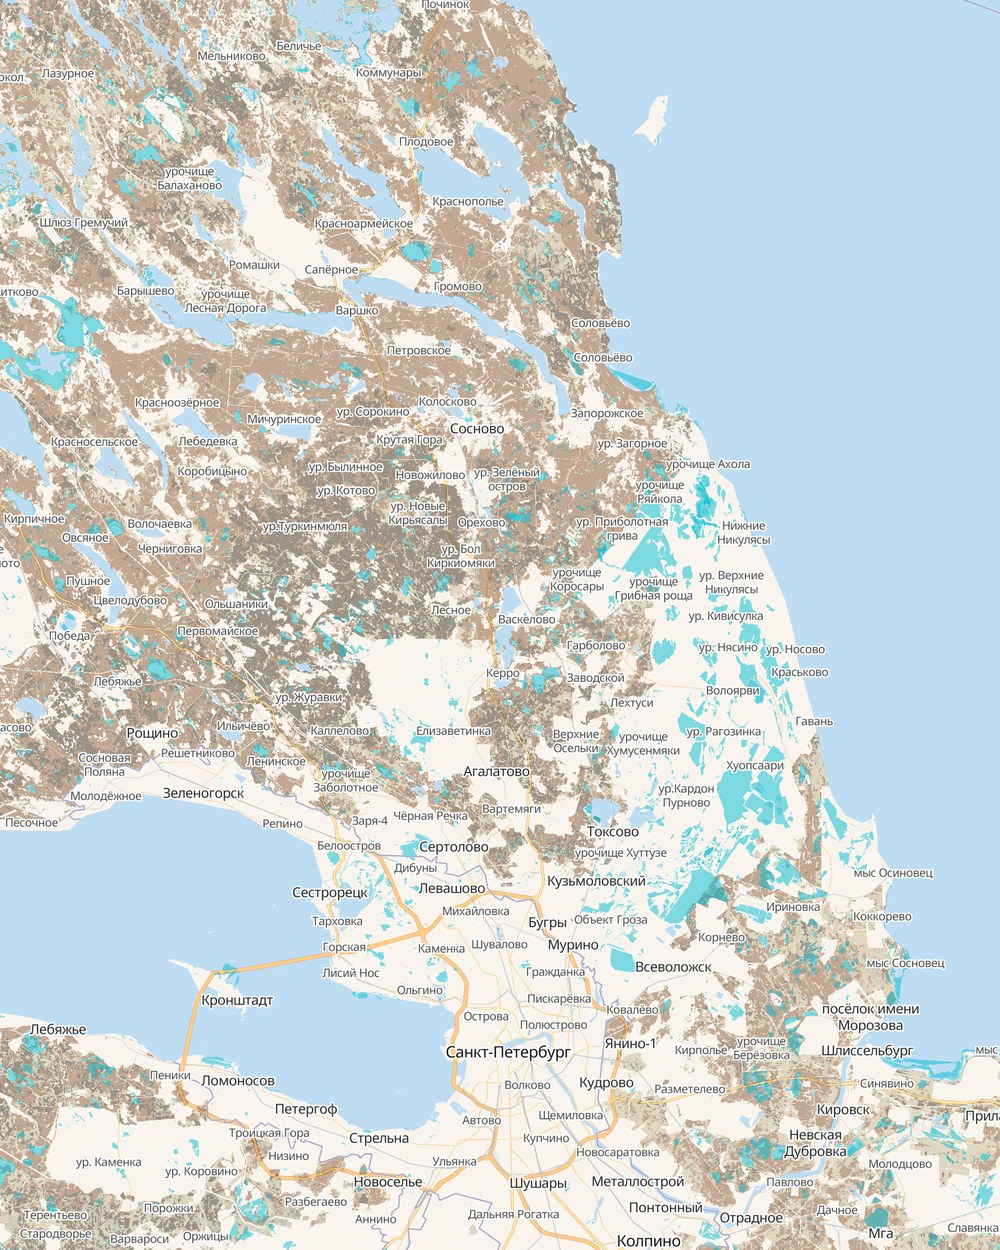
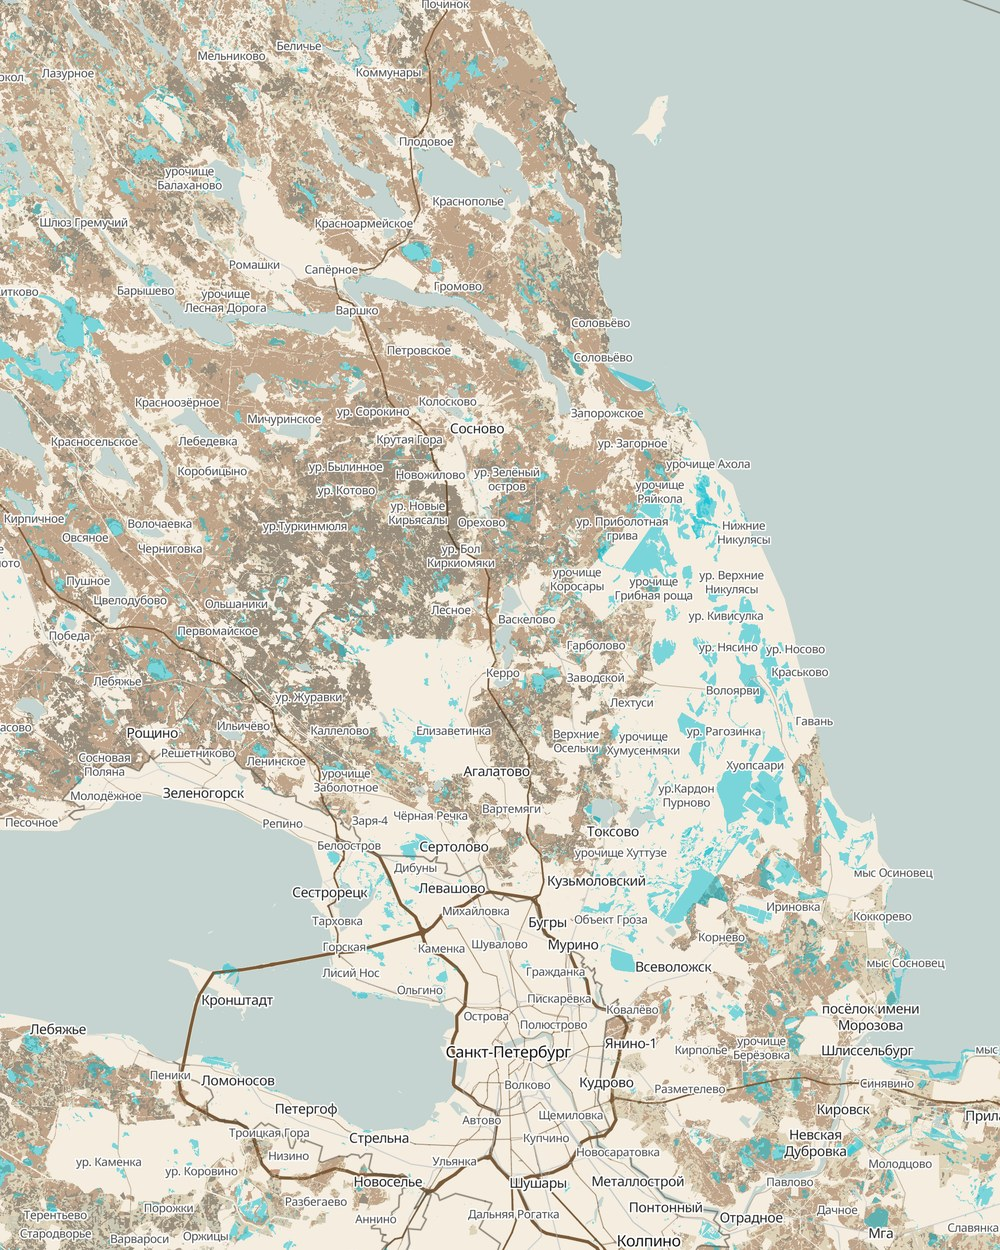
chore(d1v): SpotsMiniMap on D1V basemap + landing cameo refresh
После shipping D1V paint patches (acf8529) остались две точки
с ванильным Versatiles:

1. SpotsMiniMap на /spots — собственный maplibre instance,
   фетчит buildSchemeStyle напрямую (не через useBaseMap).
   Переключён на buildSchemeStyleD1V → консистентность с /map.

2. apps/web/public/landing-cameo.jpg — JPEG снимок снят
   до D1V deploy, на нём яркий Versatiles. Re-shot через
   playwright headless (skill screenshot-prod-via-playwright)
   с D1V basemap. Visual: приглушённая базовая карта пропустила
   forest+wetland+waterway overlays в первый план — overlay'и
   читаются гораздо чище на бумажном фоне, чем на старом
   ярко-зелёном Versatiles.

diff --git a/apps/web/src/components/SpotsMiniMap.tsx b/apps/web/src/components/SpotsMiniMap.tsx
@@ -21,7 +21,7 @@ import { Protocol } from "pmtiles";
 import "maplibre-gl/dist/maplibre-gl.css";
 import type { UserSpot } from "@mushroom-map/types";
 import {
-  buildSchemeStyle,
+  buildSchemeStyleD1V,
   SCHEME_STYLE_FALLBACK,
 } from "./mapView/styles/scheme";
 import { RATING_HEX } from "../lib/spotRating";
@@ -124,7 +124,7 @@ export const SpotsMiniMap = forwardRef<SpotsMiniMapHandle, Props>(
       const init = async () => {
         let style: maplibregl.StyleSpecification;
         try {
-          style = await buildSchemeStyle();
+          style = await buildSchemeStyleD1V();
         } catch {
           style = SCHEME_STYLE_FALLBACK;
         }
